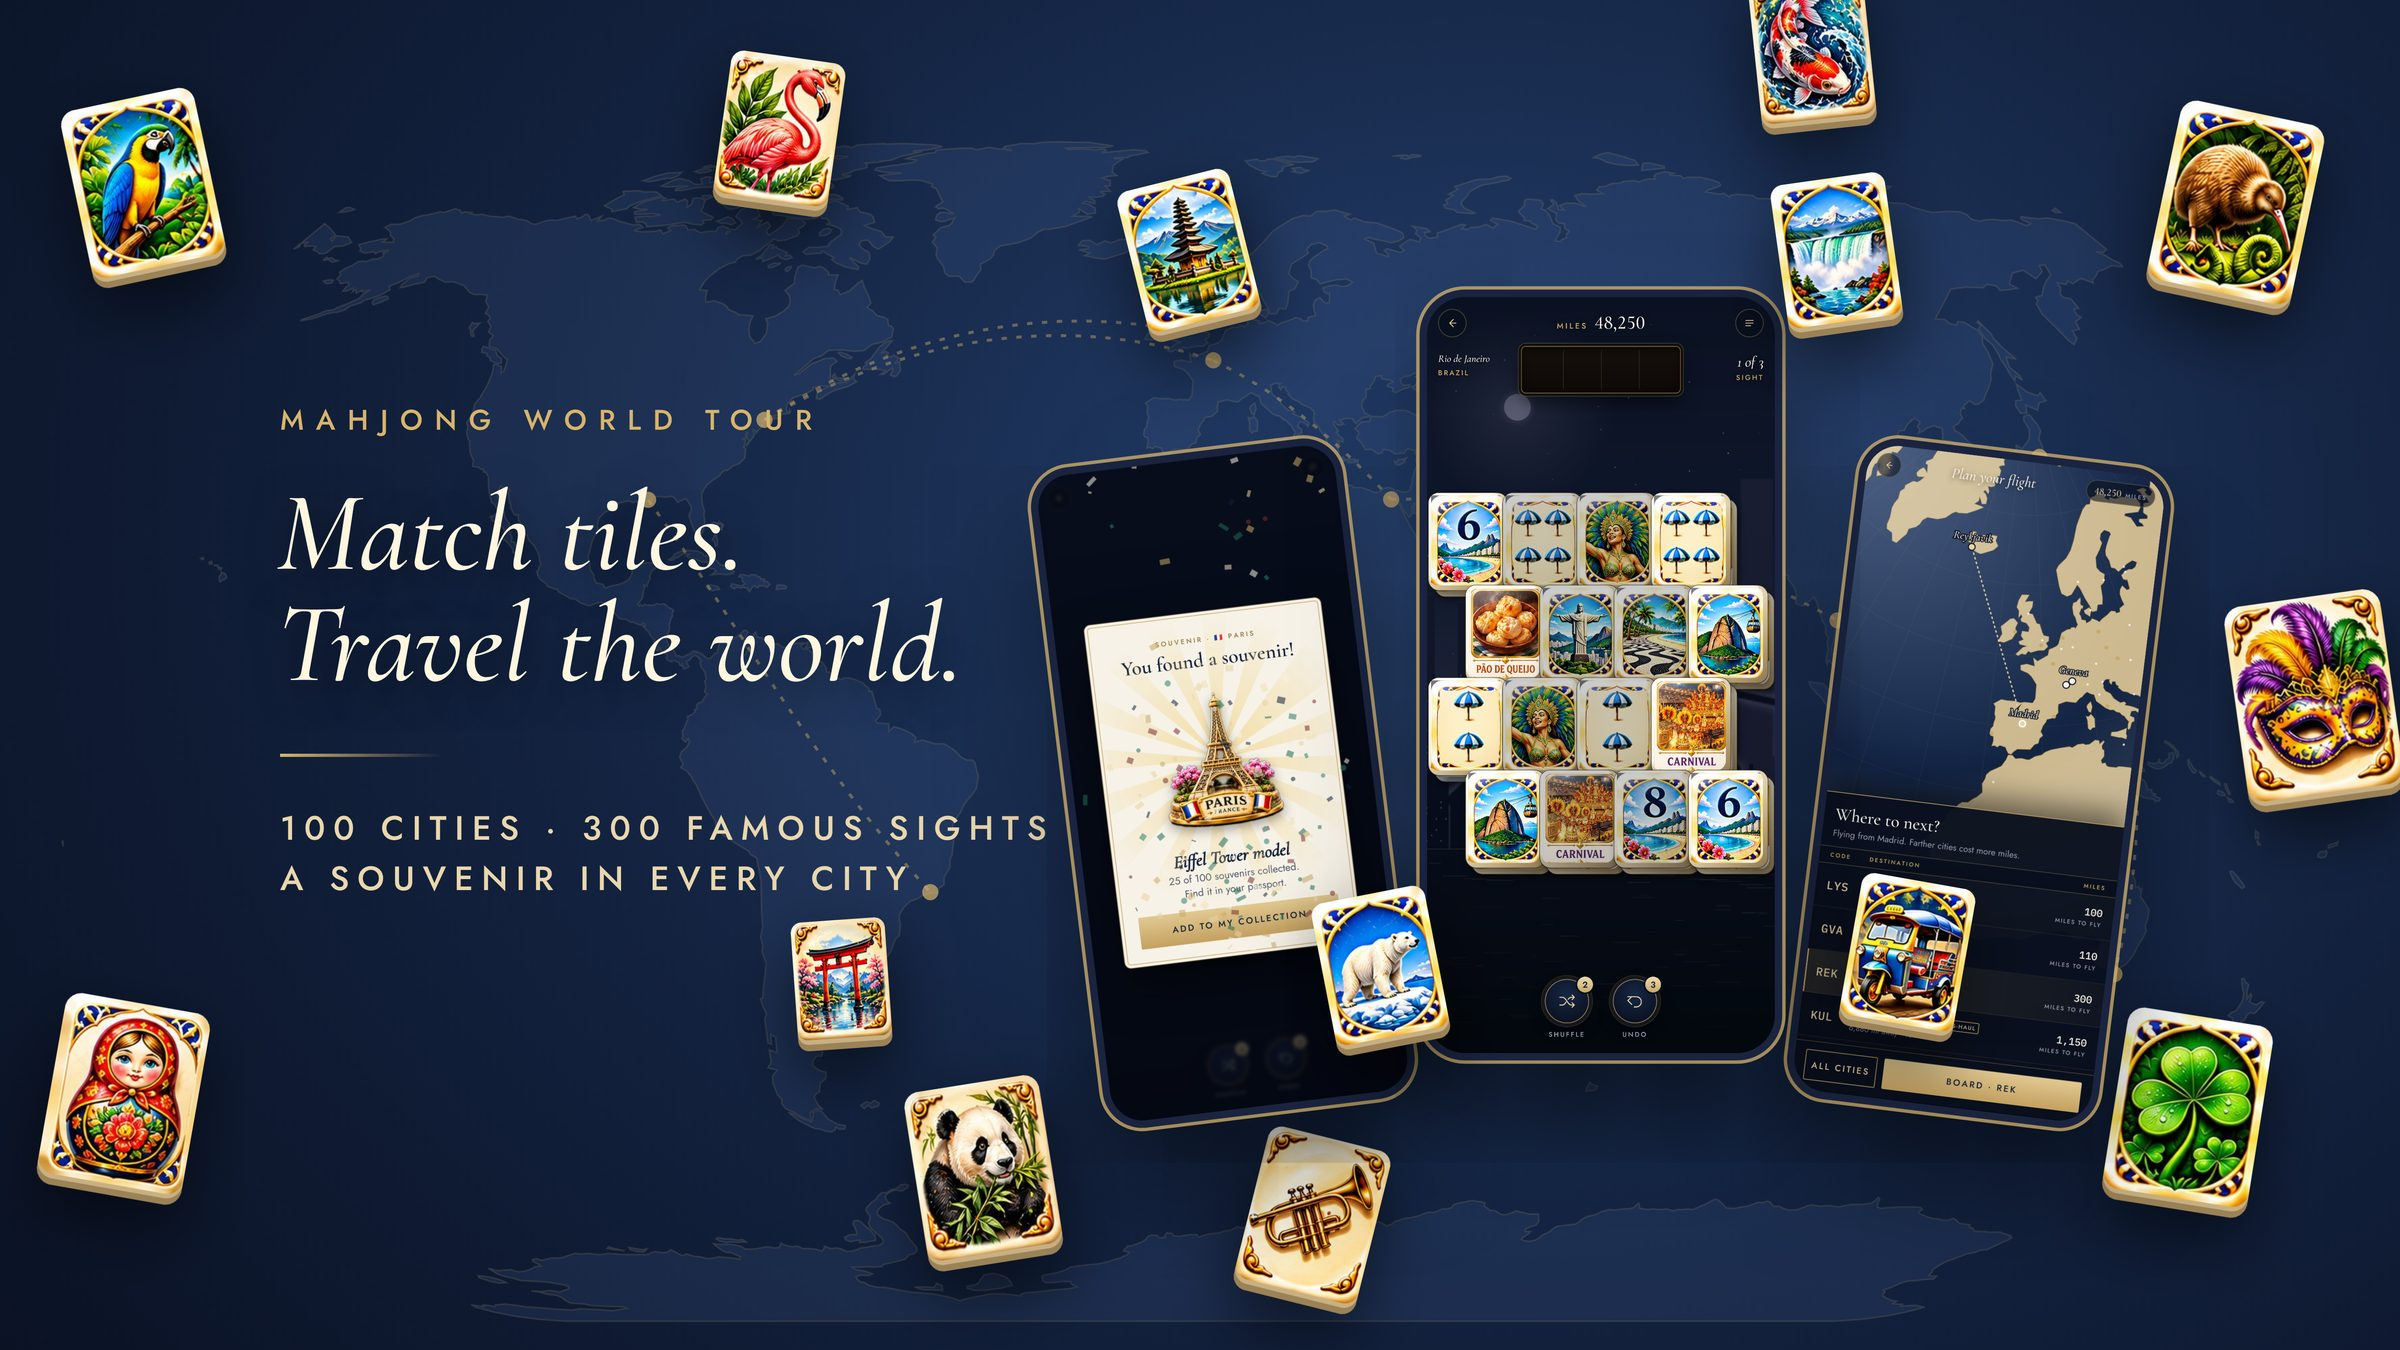
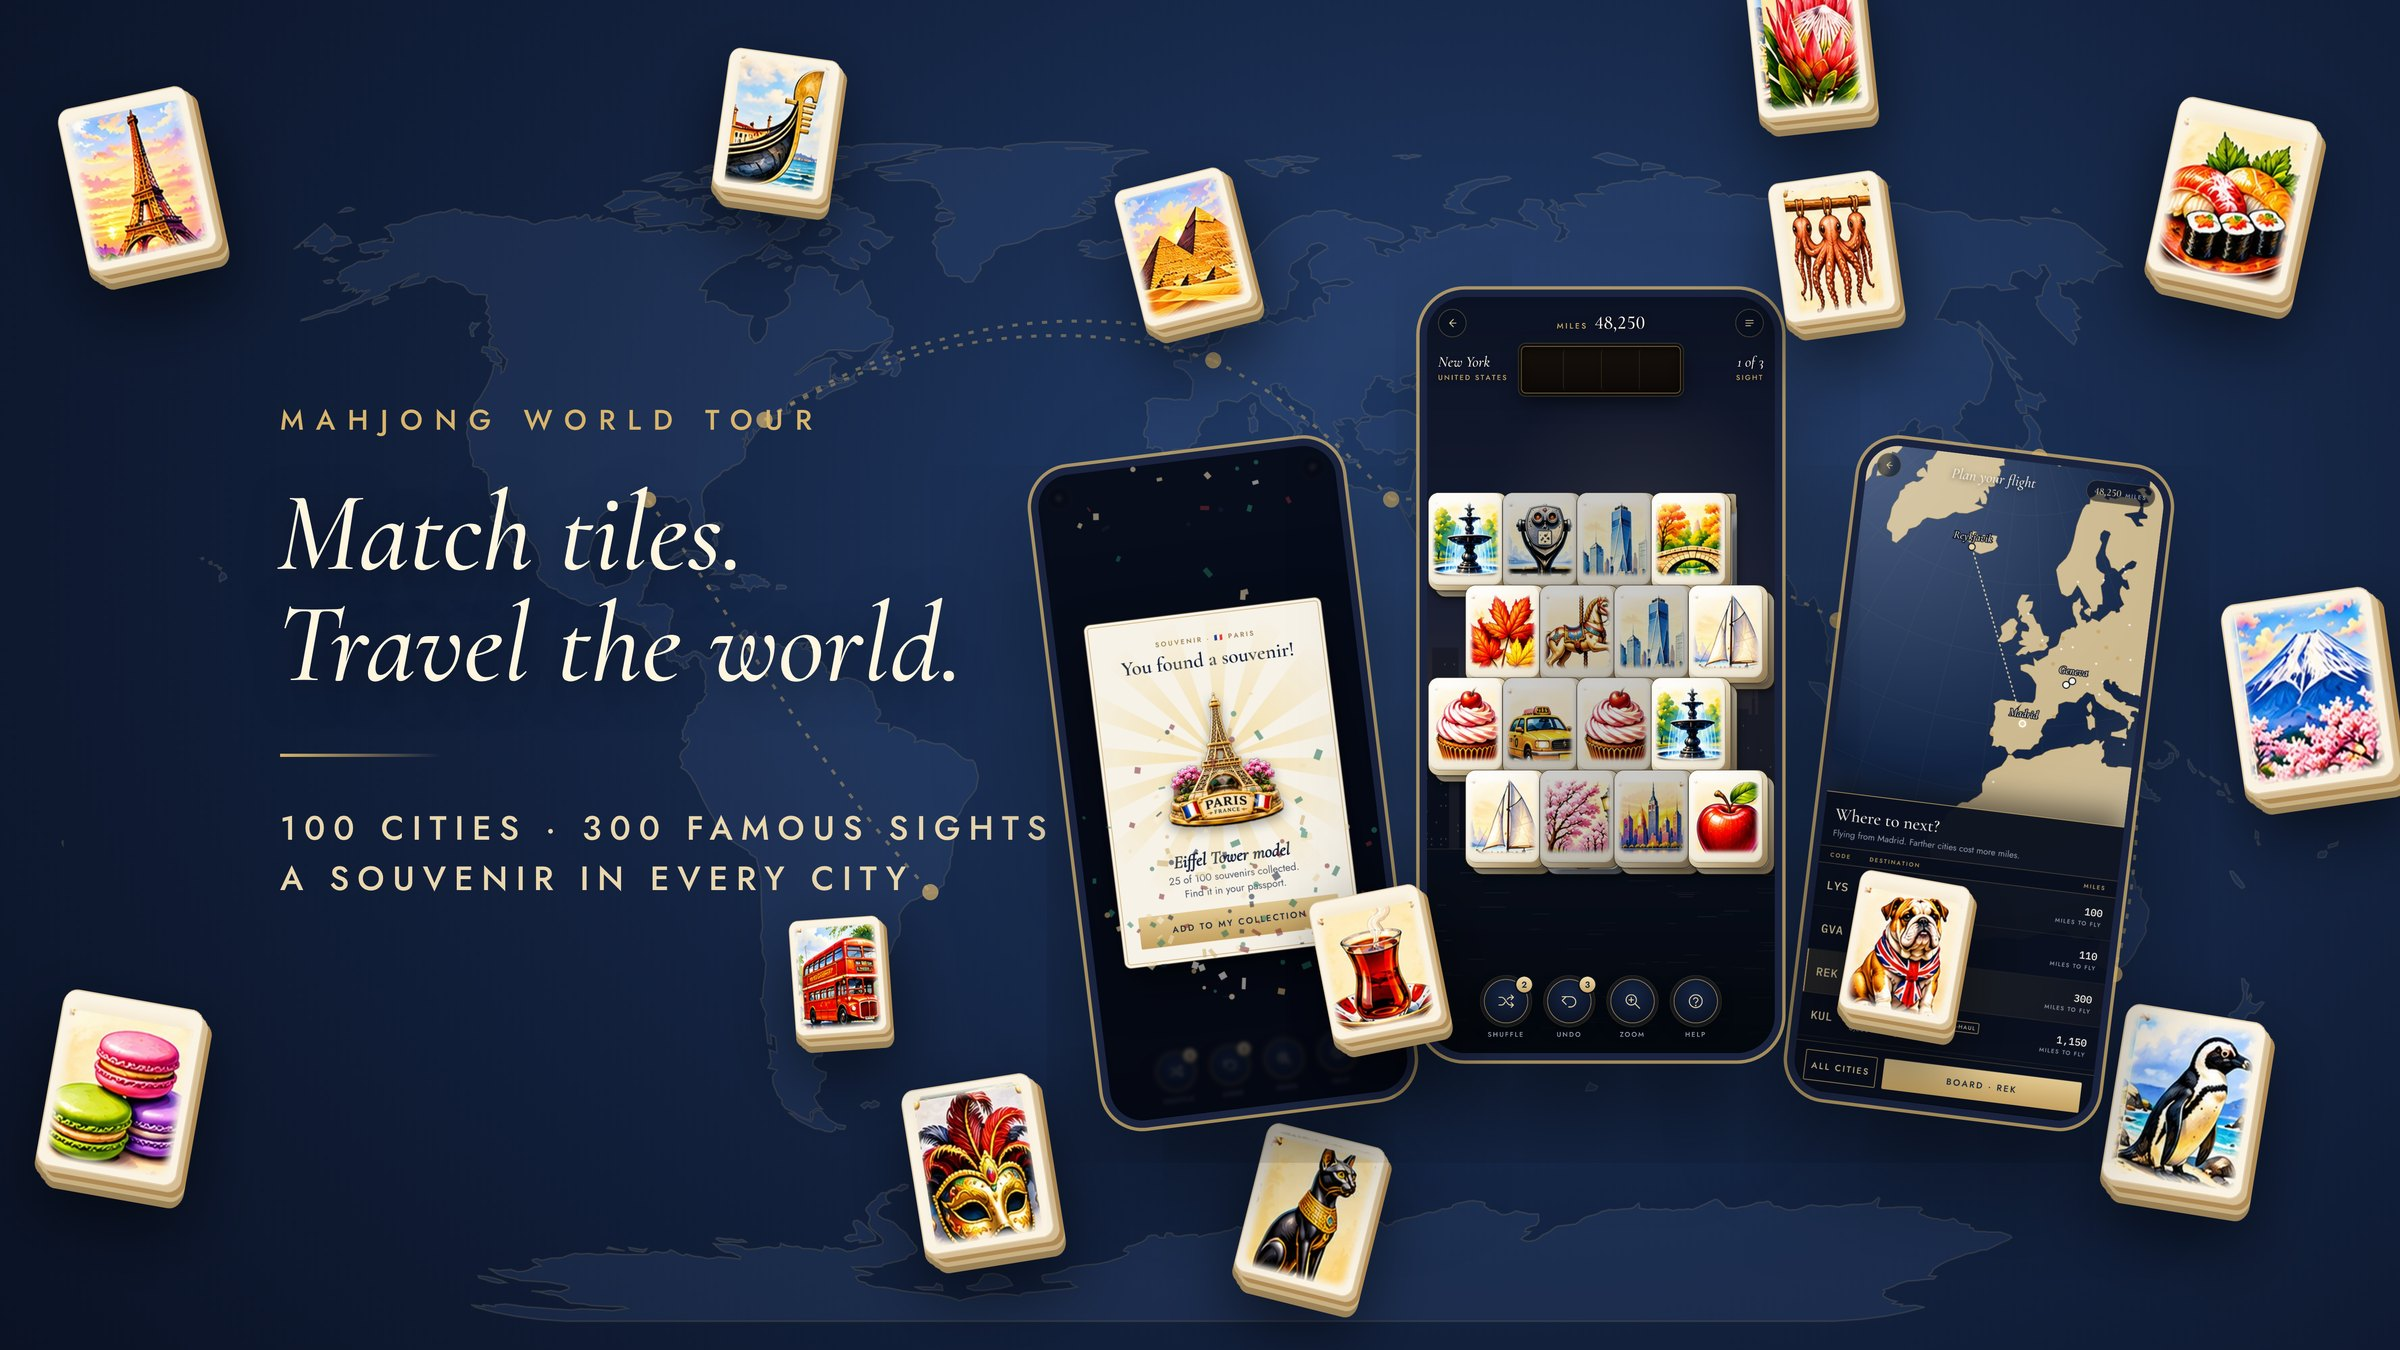
Update hero and screenshots with per-city picture tiles
Claude-Session: https://claude.ai/code/session_012PeQ2E4ySiMLG9EvXUAQJF

diff --git a/index.html b/index.html
@@ -28,10 +28,10 @@
 <div class="feat"><b>Souvenirs</b><span>Spin the prize wheel and collect a keepsake from every city to fill your passport.</span></div>
 </div>
 <div class="shots">
-<img src="img/s1.jpg" alt="A board of painted Rio de Janeiro tiles" loading="lazy">
-<img src="img/s2.jpg" alt="A landmark revealed after clearing the board" loading="lazy">
+<img src="img/s1.jpg" alt="A New York board of hand-painted city tiles" loading="lazy">
+<img src="img/s2.jpg" alt="A Tokyo board with a fortune pair doubling your miles" loading="lazy">
 <img src="img/s3.jpg" alt="The world map for choosing the next destination" loading="lazy">
-<img src="img/s4.jpg" alt="A souvenir won on the prize wheel" loading="lazy">
+<img src="img/s4.jpg" alt="A souvenir found in Paris" loading="lazy">
 </div>
 </main>
 
